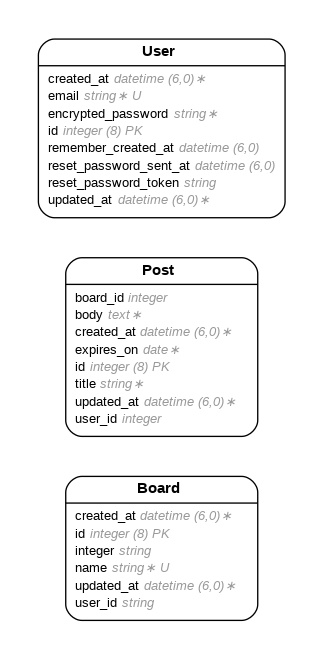
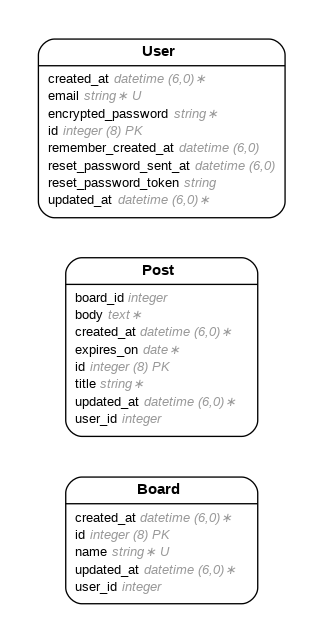
undid bad migration and created new

diff --git a/db/schema.rb b/db/schema.rb
@@ -10,7 +10,7 @@
 #
 # It's strongly recommended that you check this file into your version control system.
 
-ActiveRecord::Schema[7.1].define(version: 2025_05_29_035536) do
+ActiveRecord::Schema[7.1].define(version: 2025_05_29_041339) do
   # These are extensions that must be enabled in order to support this database
   enable_extension "plpgsql"
 
@@ -18,8 +18,7 @@ ActiveRecord::Schema[7.1].define(version: 2025_05_29_035536) do
     t.string "name"
     t.datetime "created_at", null: false
     t.datetime "updated_at", null: false
-    t.string "user_id"
-    t.string "integer"
+    t.integer "user_id"
   end
 
   create_table "posts", force: :cascade do |t|

diff --git a/app/models/board.rb b/app/models/board.rb
@@ -3,11 +3,10 @@
 # Table name: boards
 #
 #  id         :bigint           not null, primary key
-#  integer    :string
 #  name       :string
 #  created_at :datetime         not null
 #  updated_at :datetime         not null
-#  user_id    :string
+#  user_id    :integer
 #
 class Board < ApplicationRecord
   validates(:name, presence: true, uniqueness: true)

diff --git a/db/migrate/20250529041339_add_user_id_to_boards.rb b/db/migrate/20250529041339_add_user_id_to_boards.rb
@@ -1,0 +1,5 @@
+class AddUserIdToBoards < ActiveRecord::Migration[7.1]
+  def change
+    add_column :boards, :user_id, :integer
+  end
+end
